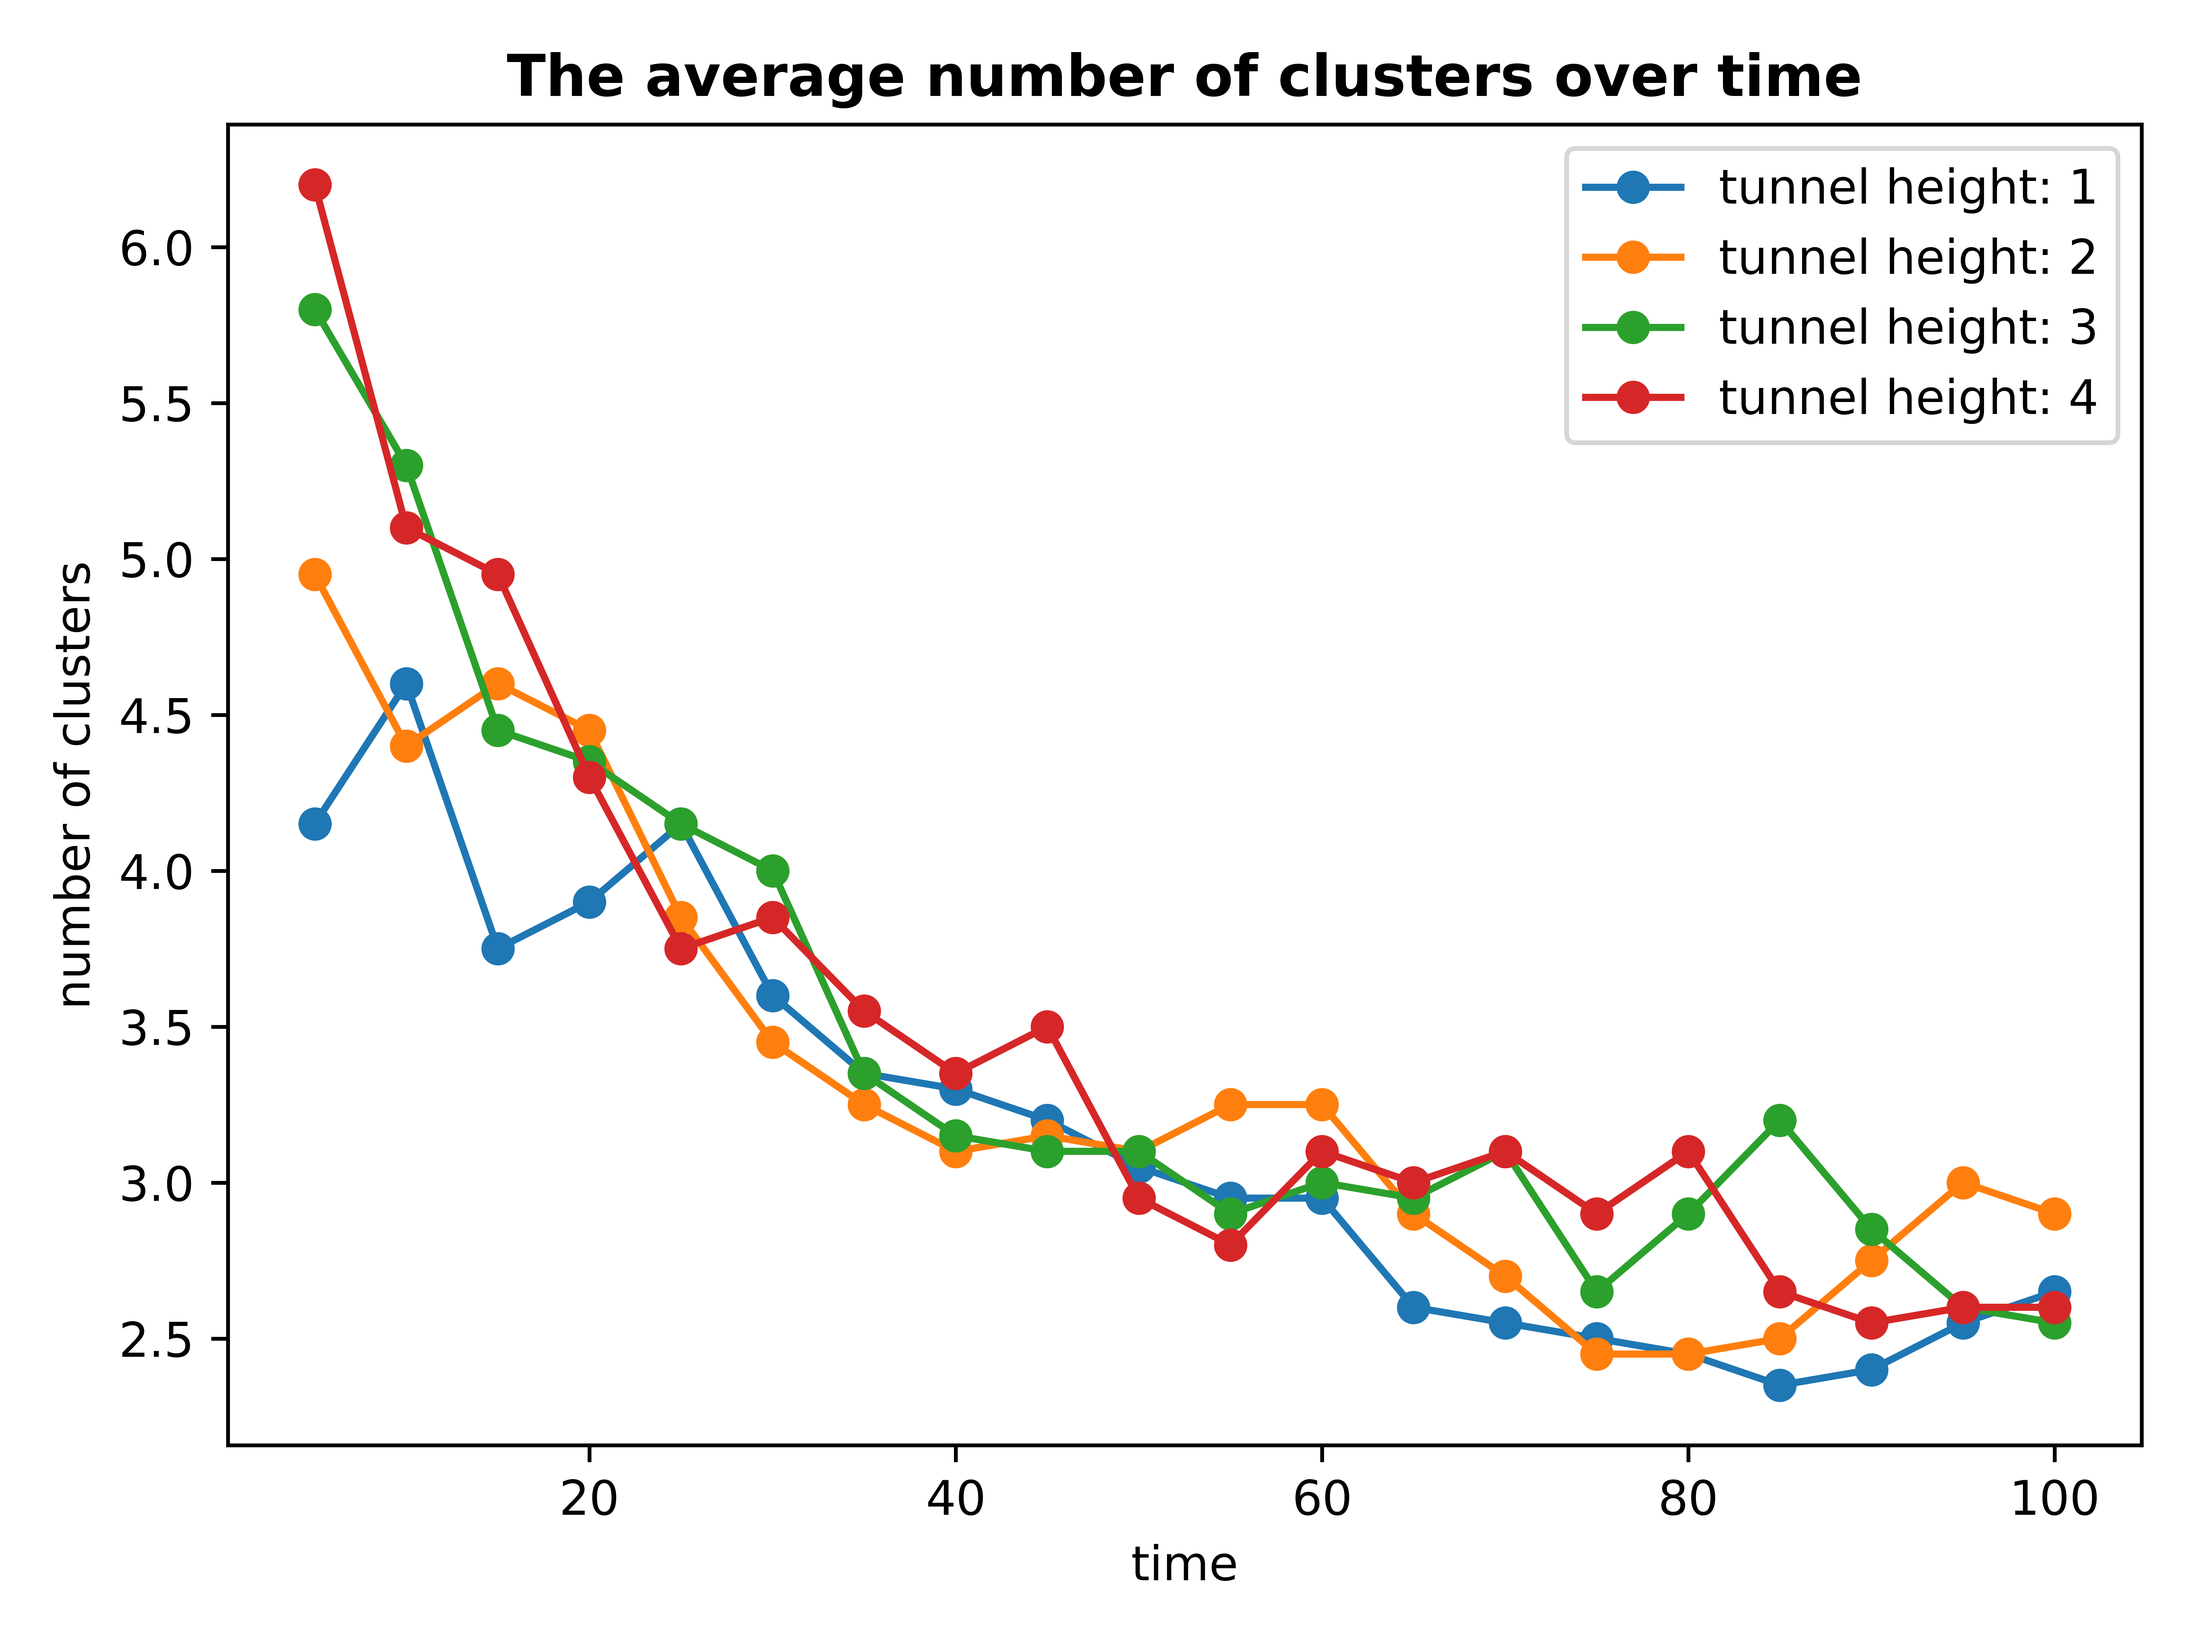
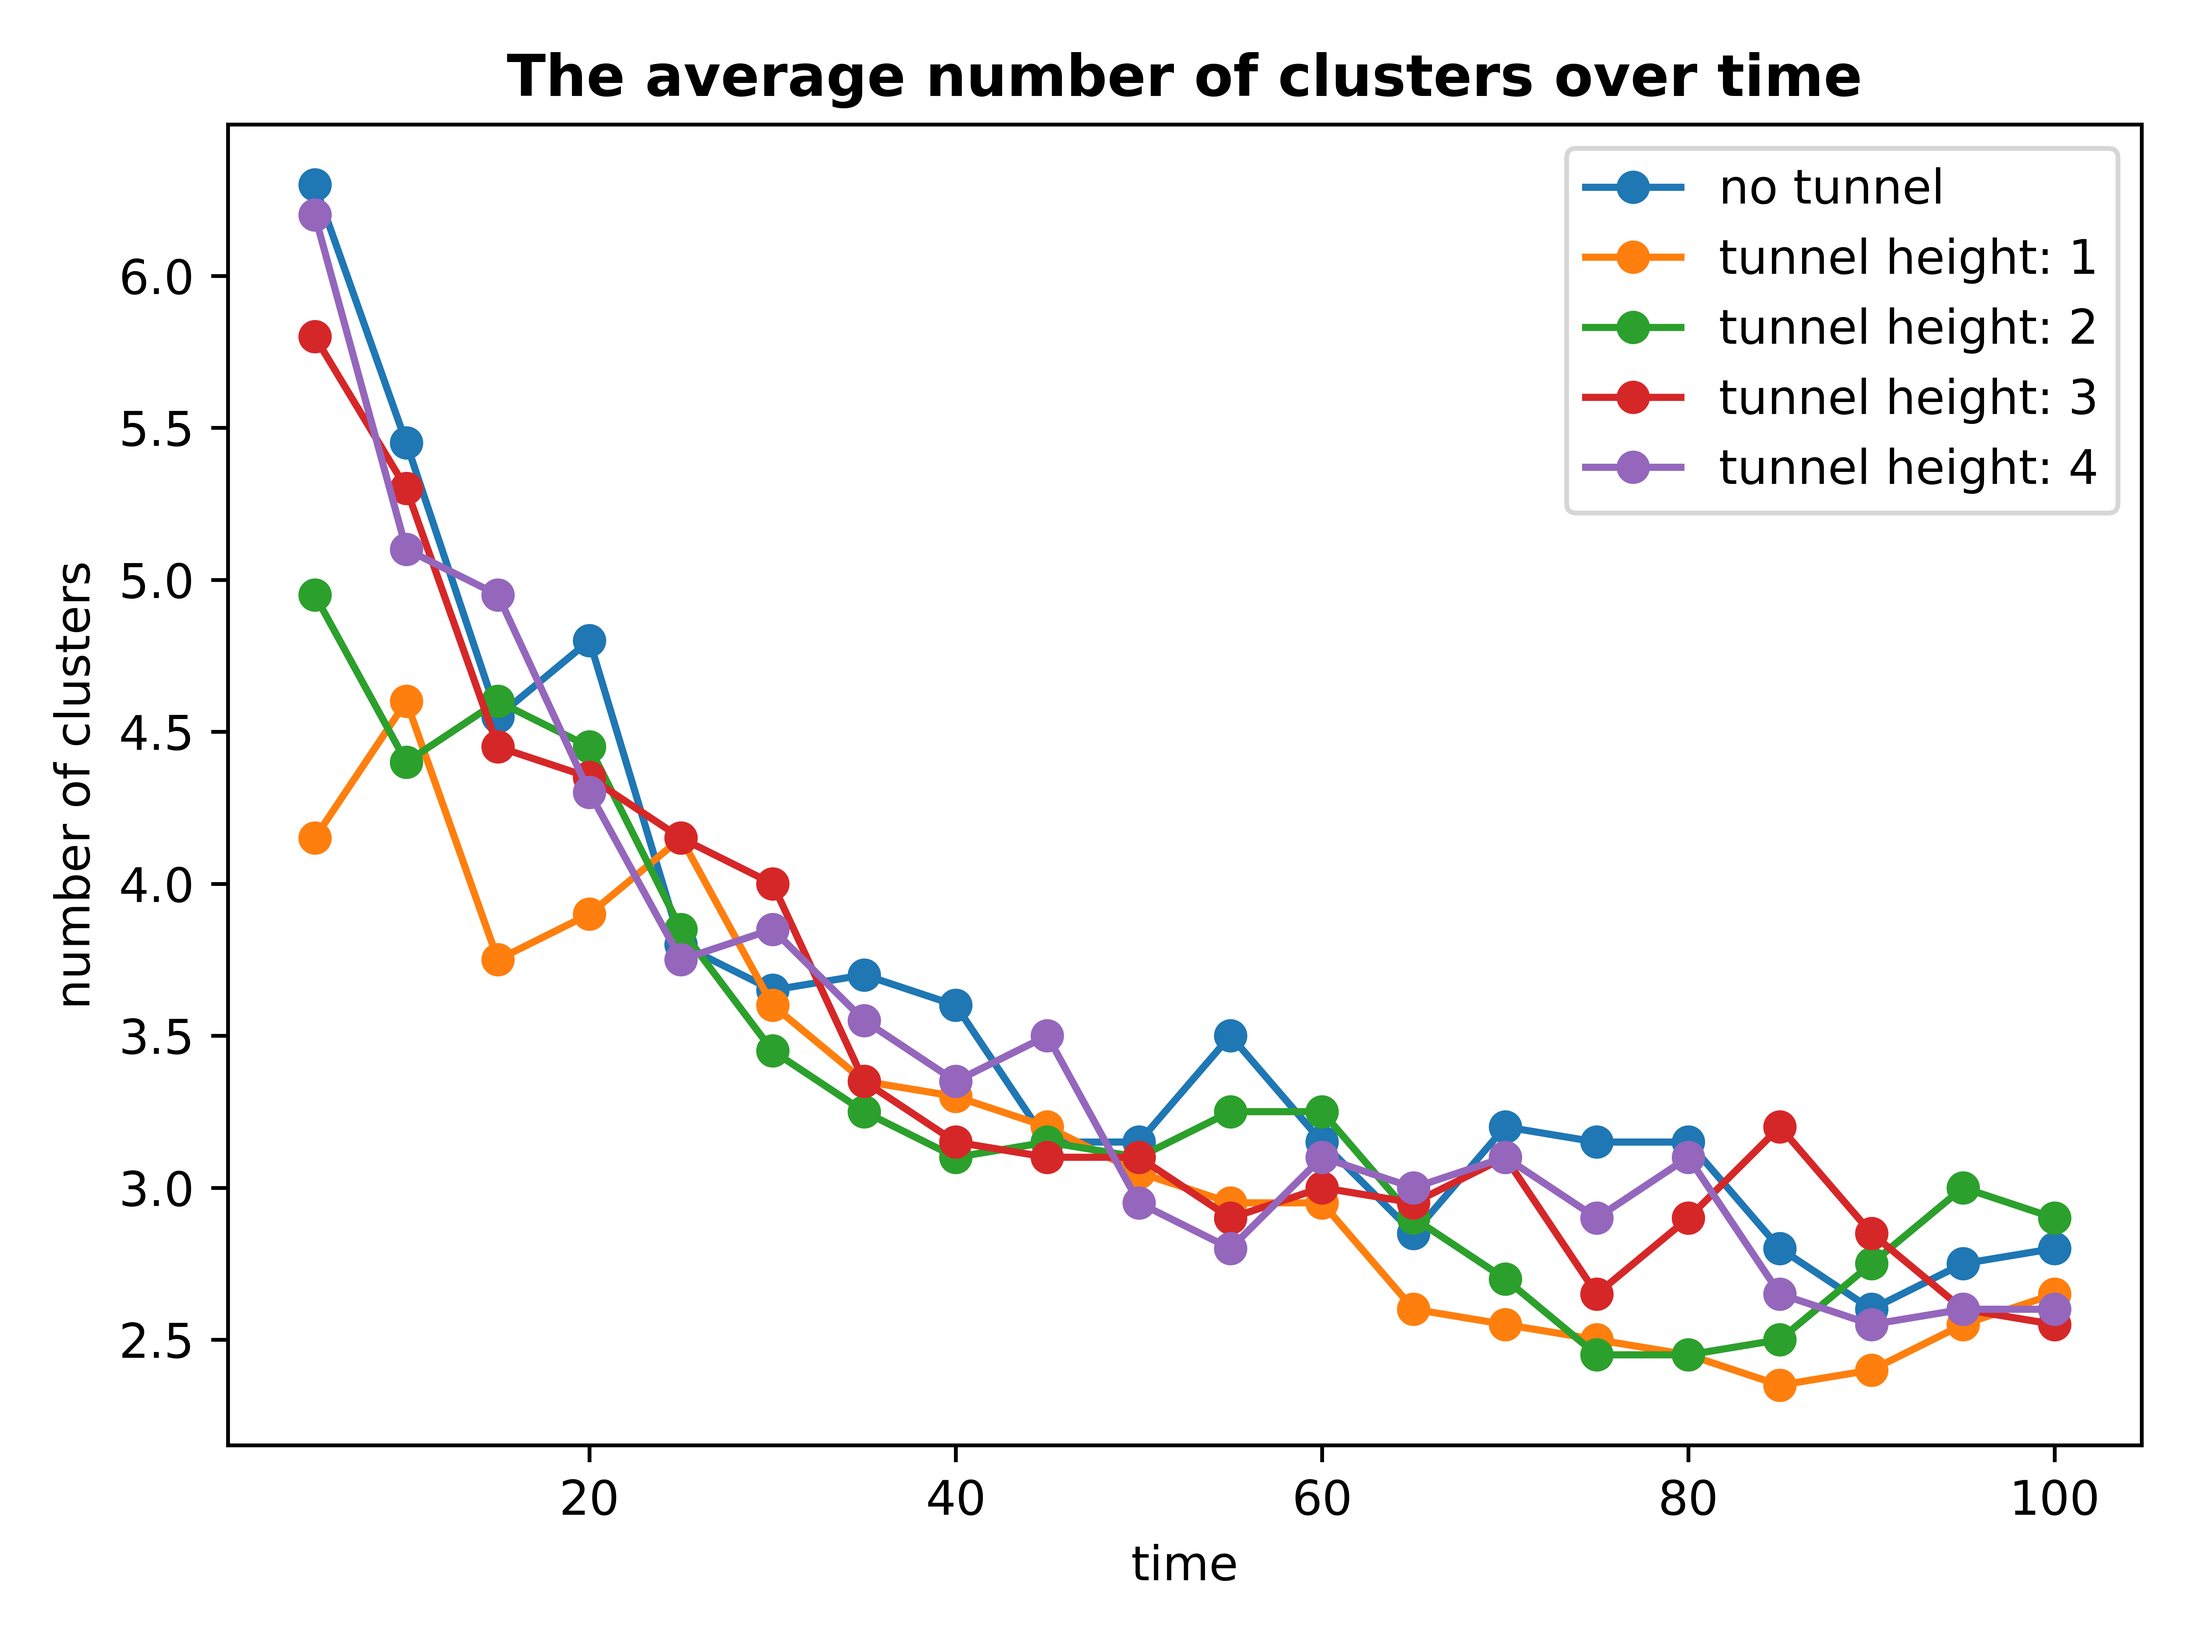
Added graph for 'no tunnel' to plot

diff --git a/plot.py b/plot.py
@@ -237,10 +237,16 @@ def plot_tunnel_height_num_clusters(
     time = np.arange(5, 105, 5)
     data_file = 'results/tunnel_height_results_num_clusters.csv'
 
-    for height in range(1, 5):
+    for height in range(0, 5):
         num_clusters, _, _ = get_num_clusters(
             time, data_file, height, skip_cols=3)
-        plt.plot(time, num_clusters, 'o-', label=f'tunnel height: {height}')
+
+        if height == 0:
+            label = 'no tunnel'
+        else:
+            label = f'tunnel height: {height}'
+
+        plt.plot(time, num_clusters, 'o-', label=label)
 
     plt.title('The average number of clusters over time',
               fontweight='bold')
